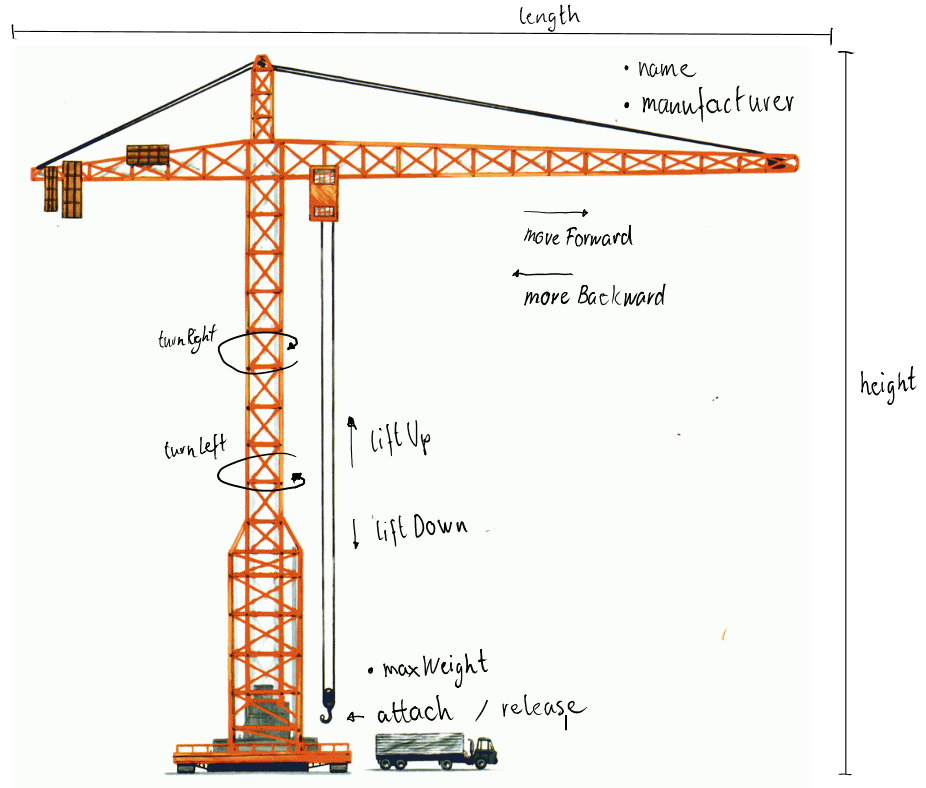
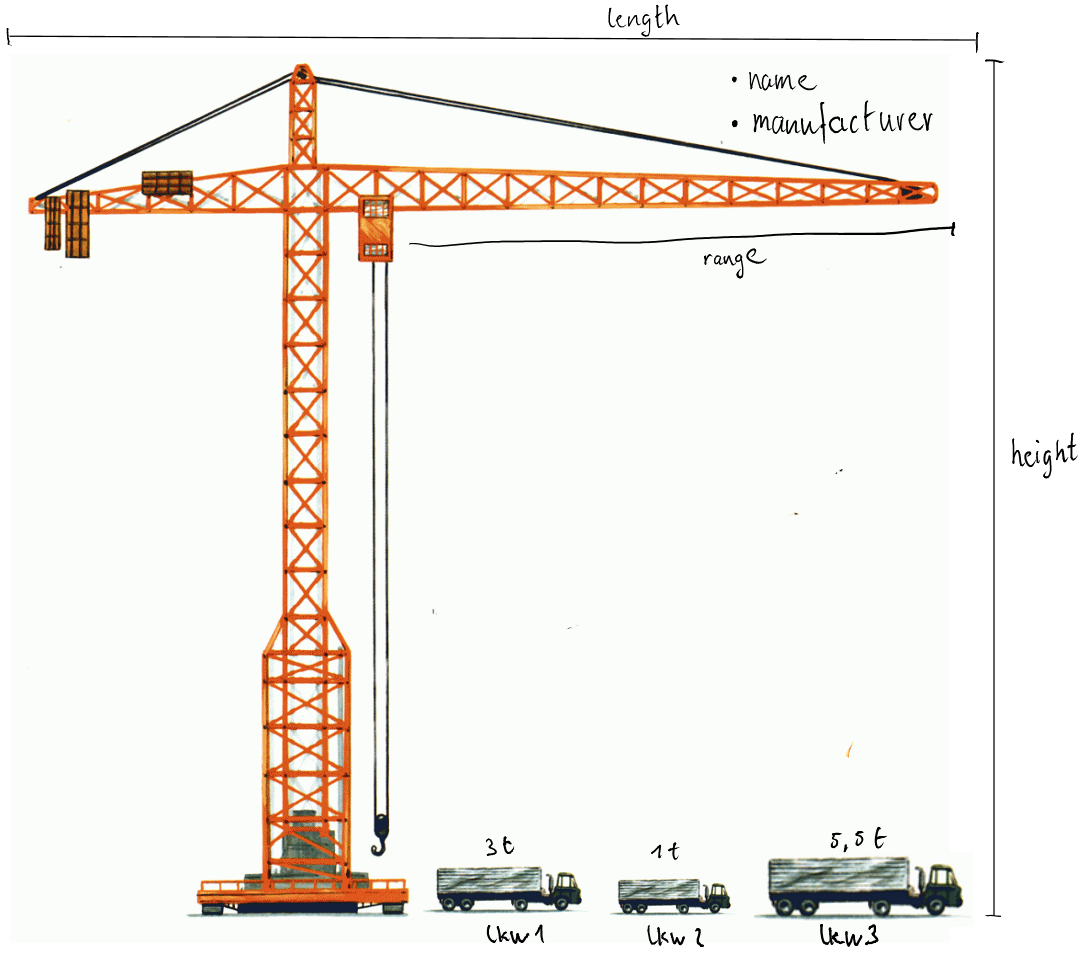
Crane example

diff --git a/ConstructionSite/src/JavaTutorat/Crane.java b/ConstructionSite/src/JavaTutorat/Crane.java
@@ -14,10 +14,109 @@ public class Crane {
 	private int range;
 	private int rotation;
 	
+	private Truck truck;
+	
 	/* Constructors */
 	
+	// Standard constructor
 	public Crane(){
 		
+	}
+	
+	// custom constructor
+	public Crane(String name, String manufacturer, int length, int height, int maxWeight) {
+		super();
+		this.name = name;
+		this.manufacturer = manufacturer;
+		this.length = length;
+		this.height = height;
+		this.maxWeight = maxWeight;
+	}
+	
+	/* Getter and Setters */
+	
+	public String getName() {
+		return name;
+	}
+
+	public void setName(String name) {
+		this.name = name;
+	}
+
+	public String getManufacturer() {
+		return manufacturer;
+	}
+
+	public void setManufacturer(String manufacturer) {
+		this.manufacturer = manufacturer;
+	}
+
+	public int getLength() {
+		return length;
+	}
+
+	public void setLength(int length) {
+		if(length < 50){
+			try{
+				throw new Exception("Max length is 40!");
+			} catch (Exception e) {
+				e.printStackTrace();
+			}
+		}
+		this.length = length;
+	}
+
+	public int getHeight() {
+		return height;
+	}
+
+	public void setHeight(int height) {
+		if(height < 50){
+			try{
+				throw new Exception("Max height is 50!");
+			} catch (Exception e) {
+				e.printStackTrace();
+			}
+		}
+		this.height = height;
+	}
+
+	public int getMaxWeight() {
+		return maxWeight;
+	}
+
+	public void setMaxWeight(int maxWeight) {
+		if(maxWeight < 50000){
+			try {
+				throw new Exception("Max weight is 50'000kg!");
+			} catch (Exception e) {
+				e.printStackTrace();
+			}
+		}
+		this.maxWeight = maxWeight;
+	}
+
+	public int getRange() {
+		return range;
+	}
+
+	public void setRange(int range) {
+		if(range < (length-10)){
+			try {
+				throw new Exception("Max range is" + (length-10));
+			} catch (Exception e) {
+				e.printStackTrace();
+			}
+		}
+		this.range = range;
+	}
+
+	public int getRotation() {
+		return rotation;
+	}
+
+	public void setRotation(int rotation) {
+		this.rotation = rotation;
 	}
 	
 	/* Methods */
@@ -25,7 +124,7 @@ public class Crane {
 	public void liftUp(int range){
 		
 	}
-	
+
 	public void liftDown(int range){
 		
 	}
@@ -46,8 +145,15 @@ public class Crane {
 		
 	}
 	
-	public void attach(){
-				
+	public void attach(Truck truck){
+		if(truck.getWeight() > maxWeight){
+			try {
+				throw new Exception("Truck is too heavy!");
+			} catch (Exception e) {
+				e.printStackTrace();
+			}
+		}
+		this.truck = truck;	
 	}
 
 	public void release(){

diff --git a/ConstructionSite/src/JavaTutorat/Controller.java b/ConstructionSite/src/JavaTutorat/Controller.java
@@ -9,7 +9,27 @@ public class Controller {
 		
 		// Let's build a crane
 		
-
+		// Standard constructor
+		Crane crane1 = new Crane();
+		crane1.setName("Hubalot 1");
+		crane1.setManufacturer("Cat");
+		crane1.setLength(35);
+		crane1.setHeight(45);
+		crane1.setMaxWeight(40000);
+		
+		// userdefined constructor
+		Crane crane2 = new Crane("Hubalot 2", "Cat", 35, 45, 40000);
+		
+		// Build the trucks
+		Truck truck1 = new Truck("lkw1", 3000);
+		Truck truck2 = new Truck();
+		Truck truck3 = new Truck("lkw3", 5500);
+		
+		crane1.setRange(10);
+		crane1.attach(truck1);
+		crane1.liftUp(10);
+		crane1.liftDown(10);
+		crane1.release();
 	}
 
 }

diff --git a/ConstructionSite/src/JavaTutorat/Truck.java b/ConstructionSite/src/JavaTutorat/Truck.java
@@ -1,0 +1,33 @@
+package JavaTutorat;
+
+public class Truck {
+	
+	/* Properties */
+	
+	private String name;
+	private int weight;
+	
+	public Truck(String name, int weight) {
+		super();
+		this.name = name;
+		this.weight = weight;
+	}
+	
+	/* Getter und Setter */
+	
+	public String getName() {
+		return name;
+	}
+
+	public void setName(String name) {
+		this.name = name;
+	}
+
+	public int getWeight() {
+		return weight;
+	}
+
+	public void setWeight(int weight) {
+		this.weight = weight;
+	}
+}

diff --git a/README.md b/README.md
@@ -1,17 +1,35 @@
-# Einführung OOP
+# Klassenvariablen und Methoden
 
-Mit einer Software möchte man ein Problem lösen.
+Vorgehen:
 
-Unser Ziel: Kransteuerung
-
-Objektorientiertes Programmieren verfolgt den Ansatz Objekte der Wirklichkeit in Modelle zu abstrahieren (vereinfachen). Das Werkzeug zur Beschreibung dieser Abstraktion ist die Programmiersprache.
-
-Unser Beispiel: Kran
-
-In einem ersten Schritt identifiziert man die Egenschaften (Properties) und Methoden (Methods) des darzustellenden Objekts.
+* Erweiterung mit Getter und Setter Methoden zum Festlegen und Abfragen von privaten Variablen.
+* Benutzerdefinierten Konstruktor
+  * Name: Hubalot
+  * Manufacturer: Cat
+  * length 35m (davon 10m Rücken)
+  * height 45m
+  * Max weight 40'000kg
+* Ergänzen Setter methoden mit Regeln:
+  * Max length 40m (davon 10m Rücken)
+  * Max height 45m
+  * Max weight 50'000kg
+  * Max range length-10m;
+* Einen neuen Kran erstellen
+  * Einmal mit Standardkonstruktor: Hubalot 1
+  * Und einmal mit Benutzerdefinierten Konstruktor: Hubalot 2
+* Klasse Lastwagen erstellen NUR mit Benutzerdefinierten Konstruktor
+  * Name
+  * Gewicht
+* Lastwagen bereitstellen (gemäss Grafik)
+* Anpassen Crane Attach methoden
+  * Parameter Lastwagen.
+  * Kran Lastwagen Property ergänzen.
+  * Überprüfen Gewicht.
+* Implementation: Lastwagen1 anheben um 10m.
+  * Set range
+  * attach
+  * liftup
+  * lift down
+  * release
 
 ![](Crane.png)
-
-Diese Informationen werden dann als Java Klasse implementiert.
-
-Ablage: */ConstructionSite/src/*
